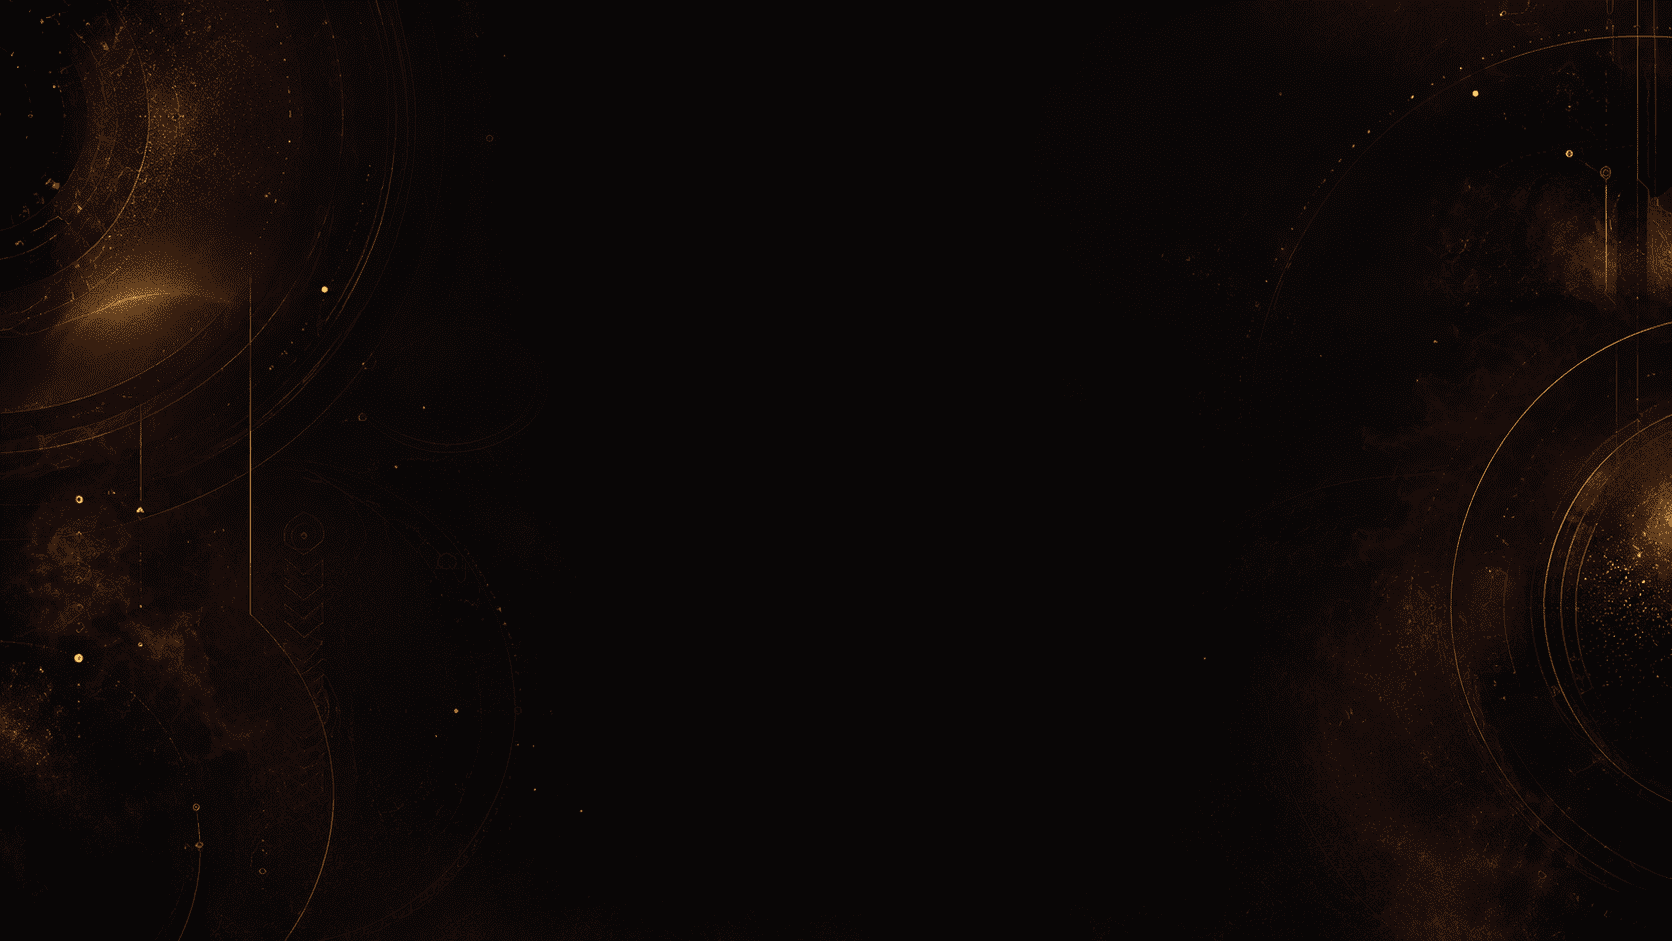
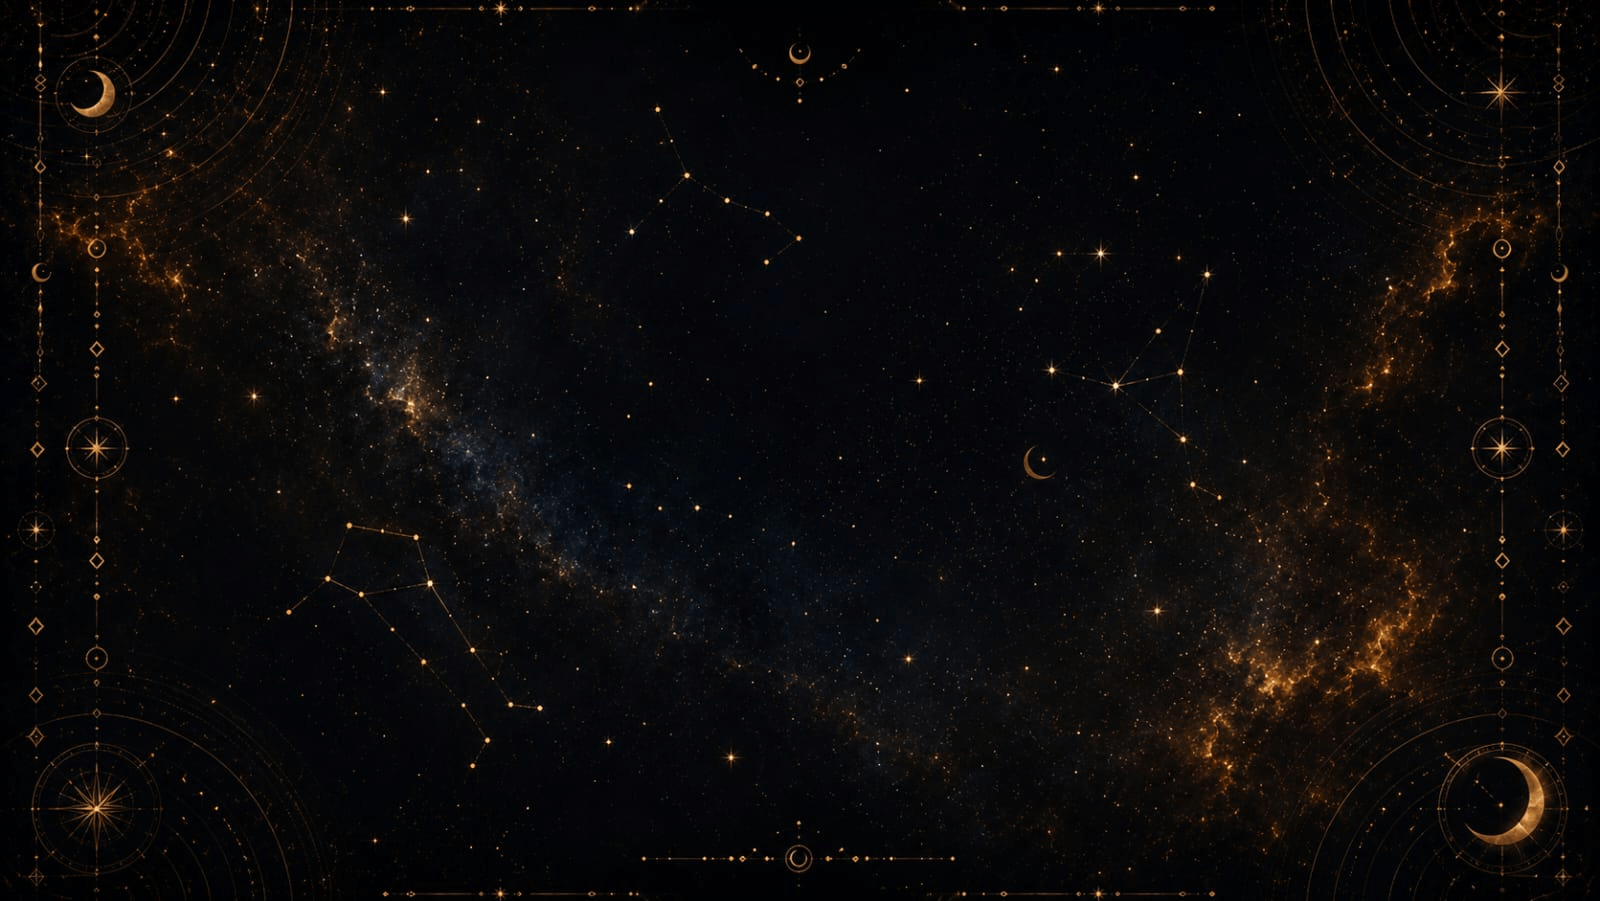
Add admin prioritization and onboarding WhatsApp

diff --git a/metodo-ori/src/pages/AdminClientes.jsx b/metodo-ori/src/pages/AdminClientes.jsx
@@ -2,6 +2,7 @@ import { useCallback, useEffect, useMemo, useState } from "react";
 import { Link } from "react-router-dom";
 
 import { getAdminClientes, updateAdminCliente } from "../services/api";
+import { getAdminClientPriority } from "../utils/adminClientPriority";
 import {
   FEEDBACK_LABELS,
   getFeedbackBridge,
@@ -161,35 +162,59 @@ function AdminClientes() {
   const clientesFiltrados = useMemo(() => {
     const termo = busca.trim().toLowerCase();
 
-    return clientes.filter((cliente) => {
-      const matchBusca =
-        !termo ||
-        cliente.nome?.toLowerCase().includes(termo) ||
-        cliente.email?.toLowerCase().includes(termo) ||
-        cliente.resultado?.toLowerCase().includes(termo) ||
-        cliente.status_jornada?.toLowerCase().includes(termo);
+    return clientes
+      .filter((cliente) => {
+        const matchBusca =
+          !termo ||
+          cliente.nome?.toLowerCase().includes(termo) ||
+          cliente.email?.toLowerCase().includes(termo) ||
+          cliente.resultado?.toLowerCase().includes(termo) ||
+          cliente.status_jornada?.toLowerCase().includes(termo);
 
-      const matchFiltro =
-        filtro === "todos" ||
-        (filtro === "leads" && !cliente.resultado) ||
-        (filtro === "andamento" &&
-          respostasPorUser.get(cliente.user_id) &&
-          !respostasPorUser.get(cliente.user_id)?.is_complete) ||
-        (filtro === "produto1" && Boolean(cliente.resultado)) ||
-        (filtro === "produto2" && Boolean(cliente.produto_2_liberado)) ||
-        (filtro === "produto3" && Boolean(cliente.produto_3_liberado)) ||
-        (filtro === "oraculo" && Boolean(oraculoPorUser.get(cliente.user_id))) ||
-        (filtro === "feedback_vista" &&
-          feedbackPorUser.get(cliente.user_id)?.response === "me_senti_vista") ||
-        (filtro === "feedback_abstrato" &&
-          feedbackPorUser.get(cliente.user_id)?.response ===
-            "fez_sentido_mas_abstrato") ||
-        (filtro === "feedback_risco" &&
-          feedbackPorUser.get(cliente.user_id)?.response === "nao_me_reconheci") ||
-        (filtro === "admins" && Boolean(cliente.admin));
+        const matchFiltro =
+          filtro === "todos" ||
+          (filtro === "leads" && !cliente.resultado) ||
+          (filtro === "andamento" &&
+            respostasPorUser.get(cliente.user_id) &&
+            !respostasPorUser.get(cliente.user_id)?.is_complete) ||
+          (filtro === "produto1" && Boolean(cliente.resultado)) ||
+          (filtro === "produto2" && Boolean(cliente.produto_2_liberado)) ||
+          (filtro === "produto3" && Boolean(cliente.produto_3_liberado)) ||
+          (filtro === "oraculo" && Boolean(oraculoPorUser.get(cliente.user_id))) ||
+          (filtro === "atencao" &&
+            getAdminClientPriority({
+              cliente,
+              resposta: respostasPorUser.get(cliente.user_id),
+              feedback: feedbackPorUser.get(cliente.user_id),
+            }).score >= 72) ||
+          (filtro === "feedback_vista" &&
+            feedbackPorUser.get(cliente.user_id)?.response === "me_senti_vista") ||
+          (filtro === "feedback_abstrato" &&
+            feedbackPorUser.get(cliente.user_id)?.response ===
+              "fez_sentido_mas_abstrato") ||
+          (filtro === "feedback_risco" &&
+            feedbackPorUser.get(cliente.user_id)?.response ===
+              "nao_me_reconheci") ||
+          (filtro === "admins" && Boolean(cliente.admin));
 
-      return matchBusca && matchFiltro;
-    });
+        return matchBusca && matchFiltro;
+      })
+      .sort((a, b) => {
+        if (filtro !== "atencao") return 0;
+
+        const priorityA = getAdminClientPriority({
+          cliente: a,
+          resposta: respostasPorUser.get(a.user_id),
+          feedback: feedbackPorUser.get(a.user_id),
+        });
+        const priorityB = getAdminClientPriority({
+          cliente: b,
+          resposta: respostasPorUser.get(b.user_id),
+          feedback: feedbackPorUser.get(b.user_id),
+        });
+
+        return priorityB.score - priorityA.score;
+      });
   }, [clientes, busca, feedbackPorUser, filtro, oraculoPorUser, respostasPorUser]);
 
   const resumo = useMemo(() => {
@@ -210,9 +235,23 @@ function AdminClientes() {
       produto3: clientes.filter((cliente) =>
         Boolean(cliente.produto_3_liberado),
       ).length,
+      atencao: clientes.filter(
+        (cliente) =>
+          getAdminClientPriority({
+            cliente,
+            resposta: respostasPorUser.get(cliente.user_id),
+            feedback: feedbackPorUser.get(cliente.user_id),
+          }).score >= 72,
+      ).length,
       feedbacks: feedbacksProduto1.length,
     };
-  }, [clientes, feedbacksProduto1.length, oraculoPorUser, respostasPorUser]);
+  }, [
+    clientes,
+    feedbackPorUser,
+    feedbacksProduto1.length,
+    oraculoPorUser,
+    respostasPorUser,
+  ]);
 
   const filtros = [
     ["todos", "Todos"],
@@ -222,6 +261,7 @@ function AdminClientes() {
     ["produto2", "Dossiê ORI"],
     ["produto3", "Código Final"],
     ["oraculo", "Com Oráculo"],
+    ["atencao", "Atenção agora"],
     ["feedback_vista", "Alta aderência"],
     ["feedback_abstrato", "Abstrato"],
     ["feedback_risco", "Risco"],
@@ -354,6 +394,7 @@ function AdminClientes() {
             ["Com Oráculo", resumo.oraculo],
             ["Dossiê ORI", resumo.produto2],
             ["Código Final", resumo.produto3],
+            ["Atenção agora", resumo.atencao],
             ["Feedbacks", resumo.feedbacks],
           ].map(([label, value]) => (
             <div
@@ -464,6 +505,11 @@ function AdminClientes() {
               const feedback = feedbackPorUser.get(cliente.user_id);
               const feedbackInsight = getFeedbackInsight(feedback);
               const feedbackBridge = getFeedbackBridge(feedback, cliente);
+              const priority = getAdminClientPriority({
+                cliente,
+                resposta: respostasPorUser.get(cliente.user_id),
+                feedback,
+              });
               const signal = getClienteSignal(cliente);
 
               return (
@@ -650,6 +696,12 @@ function AdminClientes() {
                         style={{ color: "rgba(255,245,235,0.58)" }}
                       >
                         Próxima atenção: {signal}
+                      </p>
+                      <p
+                        className="ori-type-reading-soft mt-2 text-sm leading-relaxed"
+                        style={{ color: "rgba(255,245,235,0.66)" }}
+                      >
+                        Prioridade: {priority.label} · {priority.action}
                       </p>
                       <p
                         className="ori-type-system mt-2 text-[8px]"

diff --git a/metodo-ori/src/pages/AdminDashboard.jsx b/metodo-ori/src/pages/AdminDashboard.jsx
@@ -2,6 +2,7 @@ import { Link } from "react-router-dom";
 import { useEffect, useMemo, useState } from "react";
 
 import { getAdminClientes } from "../services/api";
+import { getAdminClientPriority } from "../utils/adminClientPriority";
 import {
   FEEDBACK_LABELS,
   getFeedbackBridge,
@@ -69,6 +70,17 @@ function AdminDashboard() {
     () => new Map(clientes.map((cliente) => [cliente.user_id, cliente])),
     [clientes],
   );
+  const feedbackPorUser = useMemo(() => {
+    const map = new Map();
+
+    feedbacksProduto1.forEach((feedback) => {
+      if (!map.has(feedback.user_id)) {
+        map.set(feedback.user_id, feedback);
+      }
+    });
+
+    return map;
+  }, [feedbacksProduto1]);
   const feedbackResumo = useMemo(() => {
     const counts = feedbacksProduto1.reduce(
       (acc, feedback) => ({
@@ -125,6 +137,12 @@ function AdminDashboard() {
         .map((cliente) => {
           const resposta = respostasPorUser.get(cliente.user_id);
           const oraculo = oraculoPorUser.get(cliente.user_id);
+          const feedback = feedbackPorUser.get(cliente.user_id);
+          const priority = getAdminClientPriority({
+            cliente,
+            resposta,
+            feedback,
+          });
           const progress = resposta
             ? Math.round(
                 ((resposta.answered_count || 0) /
@@ -149,12 +167,14 @@ function AdminDashboard() {
           return {
             ...cliente,
             progress,
+            priority,
             signal,
             oraculoDate: oraculo?.date_key || null,
           };
         })
+        .sort((a, b) => b.priority.score - a.priority.score)
         .slice(0, 5),
-    [clientes, oraculoPorUser, respostasPorUser],
+    [clientes, feedbackPorUser, oraculoPorUser, respostasPorUser],
   );
 
   return (
@@ -401,11 +421,20 @@ function AdminDashboard() {
                   >
                     {cliente.email}
                   </p>
+                  <p
+                    className="ori-type-reading-soft mt-2 text-sm leading-relaxed"
+                    style={{ color: "rgba(255,245,235,0.68)" }}
+                  >
+                    {cliente.priority.reason}
+                  </p>
                 </div>
 
                 <div className="flex flex-wrap gap-2 md:justify-end">
                   <span className="ori-chip px-3 py-1.5 text-xs">
-                    {cliente.signal}
+                    {cliente.priority.label}
+                  </span>
+                  <span className="ori-chip px-3 py-1.5 text-xs">
+                    {cliente.priority.action}
                   </span>
                   <span className="ori-chip px-3 py-1.5 text-xs">
                     Oráculo: {cliente.oraculoDate || "sem carta"}

diff --git a/metodo-ori/src/utils/adminClientPriority.js b/metodo-ori/src/utils/adminClientPriority.js
@@ -1,0 +1,97 @@
+const DEFAULT_TOTAL_QUESTIONS = 36;
+
+function getProduto1Progress(resposta) {
+  if (!resposta) return null;
+
+  return Math.round(
+    ((resposta.answered_count || 0) /
+      (resposta.total_questions || DEFAULT_TOTAL_QUESTIONS)) *
+      100,
+  );
+}
+
+export function getAdminClientPriority({ cliente, resposta, feedback }) {
+  const progress = getProduto1Progress(resposta);
+
+  if (feedback?.response === "nao_me_reconheci") {
+    return {
+      score: 100,
+      label: "Revisar leitura",
+      reason: "A cliente disse que não se reconheceu.",
+      action: "Revisar sinais antes de convidar para outra camada.",
+      state: "risk",
+    };
+  }
+
+  if (feedback?.response === "fez_sentido_mas_abstrato") {
+    return {
+      score: 90,
+      label: "Trazer para o concreto",
+      reason: "A leitura fez sentido, mas ficou abstrata.",
+      action: "Enviar ponte prática antes do convite.",
+      state: "attention",
+    };
+  }
+
+  if (
+    feedback?.response === "me_senti_vista" &&
+    cliente?.resultado &&
+    !cliente?.produto_2_liberado
+  ) {
+    return {
+      score: 82,
+      label: "Convidar para Dossiê",
+      reason: "Alta aderência depois da leitura do Produto 1.",
+      action: "Abrir abordagem de aprofundamento.",
+      state: "positive",
+    };
+  }
+
+  if (cliente?.resultado && !cliente?.produto_2_liberado) {
+    return {
+      score: 72,
+      label: "Pronta para convite",
+      reason: "Código das Deusas concluído e Dossiê ainda fechado.",
+      action: "Avaliar abordagem para próxima camada.",
+      state: "positive",
+    };
+  }
+
+  if (resposta && !resposta.is_complete) {
+    return {
+      score: 54,
+      label: "Quiz em andamento",
+      reason: `A cliente avançou ${progress || 0}% no Produto 1.`,
+      action: "Acompanhar conclusão da leitura.",
+      state: "progress",
+    };
+  }
+
+  if (!cliente?.perfil_onboarding_concluido) {
+    return {
+      score: 42,
+      label: "Perfil pendente",
+      reason: "A Entrada ORI ainda não foi concluída.",
+      action: "Convidar a finalizar o perfil inicial.",
+      state: "sealed",
+    };
+  }
+
+  if (cliente?.produto_2_liberado && !cliente?.produto_3_liberado) {
+    return {
+      score: 32,
+      label: "Acompanhar Dossiê",
+      reason: "A próxima camada já foi liberada.",
+      action: "Observar avanço antes do Código Final.",
+      state: "progress",
+    };
+  }
+
+  return {
+    score: 10,
+    label: "Sem urgência",
+    reason: "Nenhum sinal forte pedindo ação agora.",
+    action: "Manter acompanhamento normal.",
+    state: "empty",
+  };
+}

diff --git a/metodo-ori/src/pages/AdminClienteDetalhe.jsx b/metodo-ori/src/pages/AdminClienteDetalhe.jsx
@@ -221,6 +221,7 @@ function AdminClienteDetalhe() {
     ["Como gosta de ser chamada", onboardingProfile.preferredName],
     ["Data de nascimento", formatShortDate(onboardingProfile.birthDate)],
     ["Estado/Cidade onde mora", onboardingProfile.residenceLocation],
+    ["WhatsApp", onboardingProfile.whatsapp],
     ["Momento atual", onboardingProfile.journeyStage],
     ["O que mais pesa", onboardingProfile.mainPain],
     ["Descrição livre", onboardingProfile.mainPainCustom],

diff --git a/metodo-ori/src/components/onboarding/OnboardingQuestionStep.jsx b/metodo-ori/src/components/onboarding/OnboardingQuestionStep.jsx
@@ -87,7 +87,7 @@ function FieldRenderer({ field, value, onFieldChange, onCheckboxChange }) {
         {field.label}
       </label>
 
-      {field.type === "text" || field.type === "date" ? (
+      {field.type === "text" || field.type === "date" || field.type === "tel" ? (
         <input
           id={fieldId}
           type={field.type}

diff --git a/metodo-ori/src/data/onboardingOriSteps.js b/metodo-ori/src/data/onboardingOriSteps.js
@@ -34,6 +34,13 @@ export const onboardingSteps = [
         placeholder: "Ex: São Paulo / Campinas",
         required: true,
       },
+      {
+        name: "whatsapp",
+        label: "WhatsApp",
+        type: "tel",
+        placeholder: "Ex: (11) 99999-9999",
+        required: true,
+      },
     ],
     ctaLabel: "Continuar",
   },

diff --git a/metodo-ori/src/pages/OnboardingOri.jsx b/metodo-ori/src/pages/OnboardingOri.jsx
@@ -66,6 +66,7 @@ const normalizeOnboardingProfile = (data) => ({
   preferredName: data.preferredName || "",
   birthDate: data.birthDate || "",
   residenceLocation: data.residenceLocation || "",
+  whatsapp: data.whatsapp || "",
   email: data.email || "",
   journeyStage: data.journeyStage || "",
   mainPain: data.mainPain || "",
